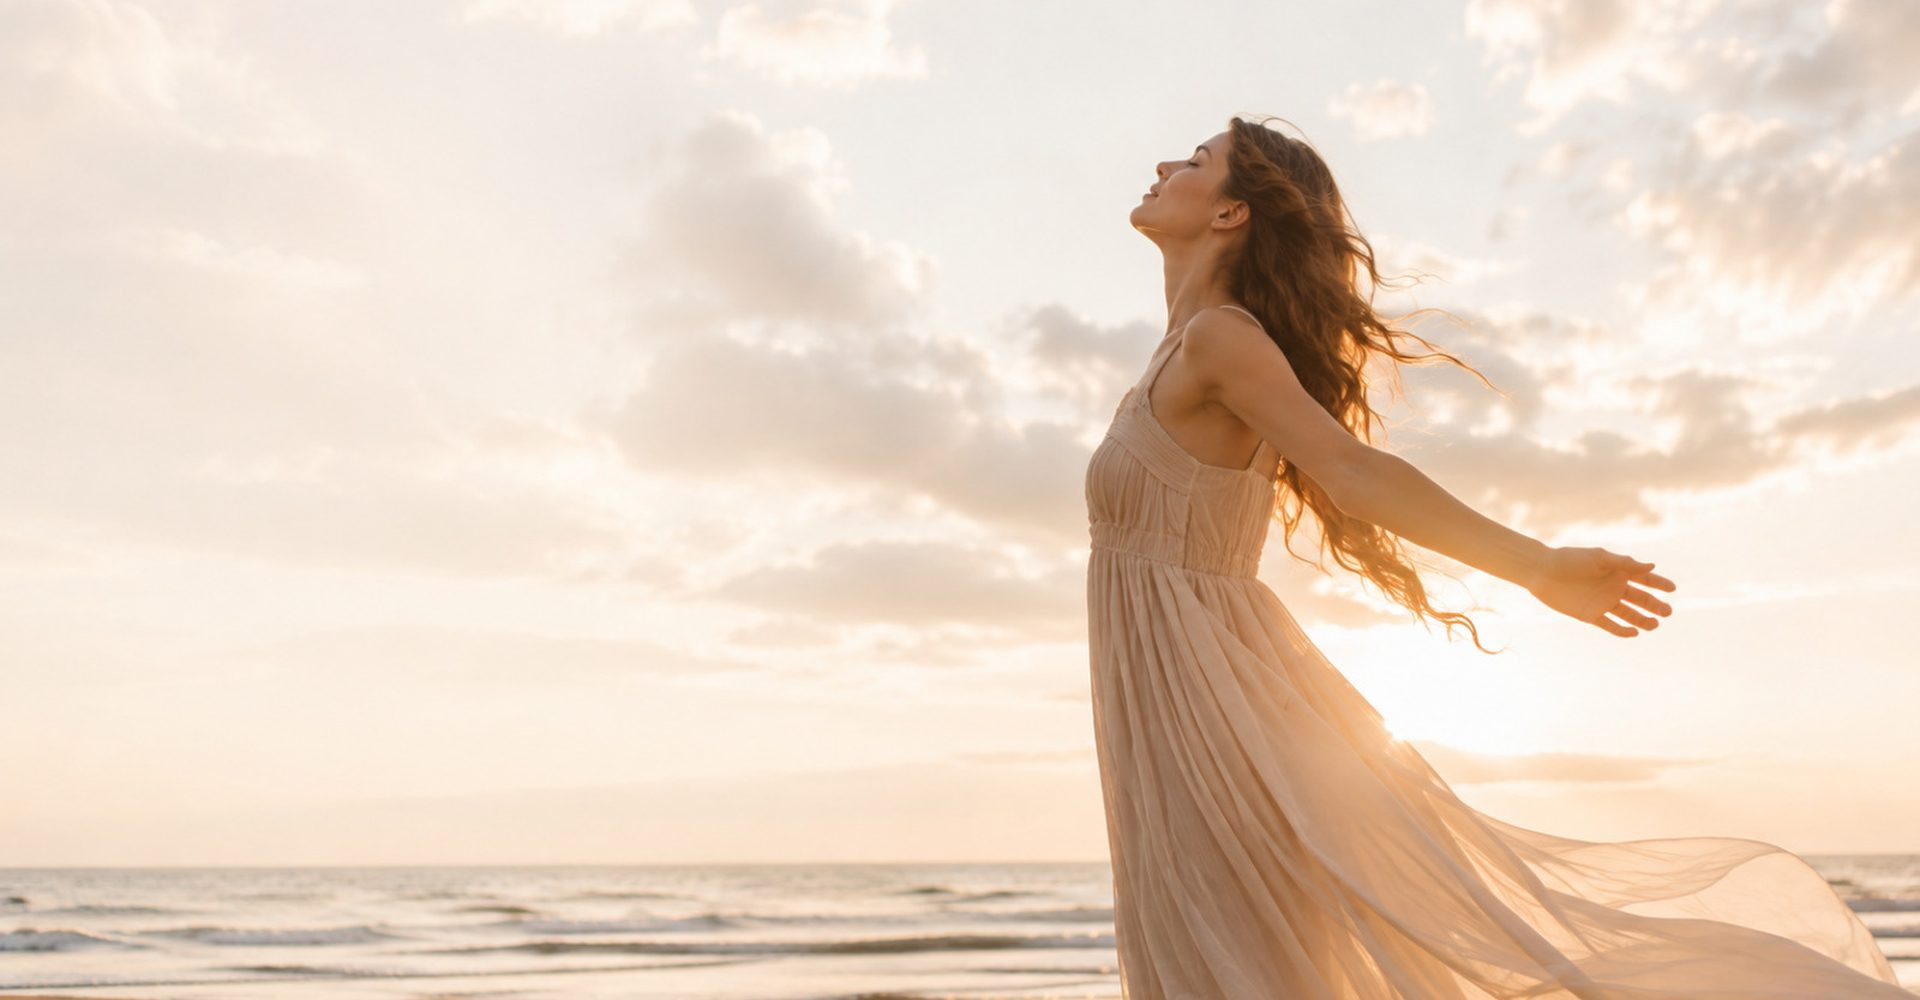
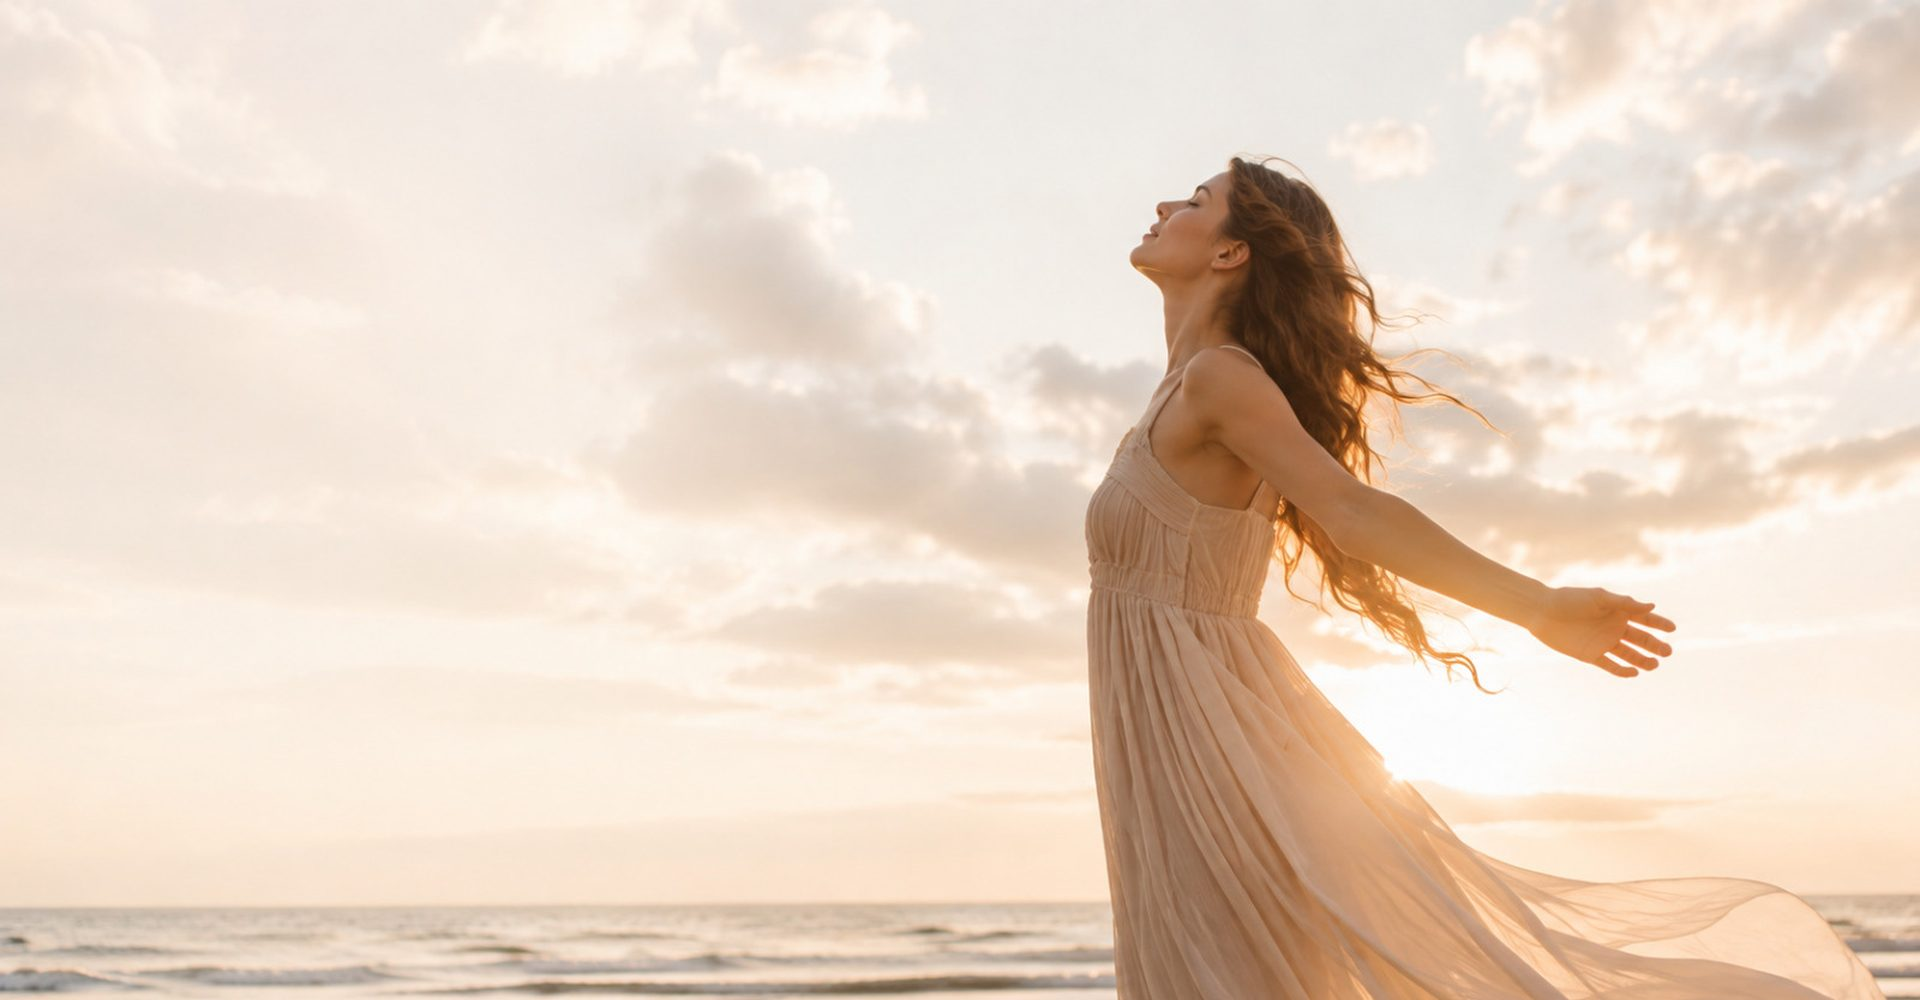
Bez leptira na naslovnom heru; fotka spustena da se lice vidi (v=62)

diff --git a/style.css b/style.css
@@ -407,14 +407,14 @@ ul.ls.cols2{display:grid;grid-template-columns:1fr 1fr;gap:12px 34px;margin-bott
 @media (min-width:701px){.duo .dcard .desc{min-height:76px;display:flex;align-items:center;justify-content:center;}}
 
 /* ---- hero s morem ---- */
-.hero.hero-more{background:url('img/hero-more.jpg') right center/cover no-repeat;}
+.hero.hero-more{background:url('img/hero-more.jpg?2') right top/cover no-repeat;}
 .hero.hero-more::before{content:'';position:absolute;inset:0;background:linear-gradient(90deg, rgba(252,248,243,.94) 0%, rgba(252,248,243,.82) 30%, rgba(252,248,243,.35) 52%, rgba(252,248,243,0) 68%);}
 .hero.hero-more .wrap{position:relative;z-index:1;}
 .hero.hero-more .hero-text{max-width:560px;padding:120px 0 130px;position:relative;}
 .hero.hero-more .leptir-hero{position:absolute;top:78px;right:-96px;width:58px;opacity:.9;}
 @media (max-width:1080px){.hero.hero-more .leptir-hero{right:0;top:44px;}}
 @media (max-width:560px){
-  .hero.hero-more{background-position:72% center;}
+  .hero.hero-more{background-position:72% top;}
   .hero.hero-more::before{background:linear-gradient(90deg, rgba(252,248,243,.94) 0%, rgba(252,248,243,.72) 55%, rgba(252,248,243,.30) 100%);}
   .hero.hero-more .hero-text{padding:80px 0 90px;text-align:left;}
   .hero.hero-more .leptir-hero{width:44px;}

diff --git a/index.html b/index.html
@@ -7,7 +7,7 @@
 <link rel="preconnect" href="https://fonts.googleapis.com">
 <link rel="preconnect" href="https://fonts.gstatic.com" crossorigin>
 <link href="https://fonts.googleapis.com/css2?family=Lora:ital,wght@0,400;0,500;0,600;0,700;1,400&family=Open+Sans:wght@300;400;500;600;700&display=swap" rel="stylesheet">
-<link rel="stylesheet" href="style.css?v=61">
+<link rel="stylesheet" href="style.css?v=62">
 </head>
 <body>
 
@@ -32,7 +32,6 @@
 <section class="hero hero-more">
   <div class="wrap">
     <div class="hero-text">
-      <img class="leptir-hero" src="img/leptir.png" alt="">
       <div class="kicker-line">Programi za povratak onome tko jesi ispod svega što nisi.</div>
       <h1>Nježan i dubok rad za sve koji se žele vratiti sebi</h1>
       <p>Tvoja prošlost ne određuje tvoju budućnost.</p>

diff --git a/blog.html b/blog.html
@@ -7,7 +7,7 @@
 <link rel="preconnect" href="https://fonts.googleapis.com">
 <link rel="preconnect" href="https://fonts.gstatic.com" crossorigin>
 <link href="https://fonts.googleapis.com/css2?family=Lora:ital,wght@0,400;0,500;0,600;0,700;1,400&family=Open+Sans:wght@300;400;500;600;700&display=swap" rel="stylesheet">
-<link rel="stylesheet" href="style.css?v=61">
+<link rel="stylesheet" href="style.css?v=62">
 </head>
 <body>
 

diff --git a/faq.html b/faq.html
@@ -7,7 +7,7 @@
 <link rel="preconnect" href="https://fonts.googleapis.com">
 <link rel="preconnect" href="https://fonts.gstatic.com" crossorigin>
 <link href="https://fonts.googleapis.com/css2?family=Lora:ital,wght@0,400;0,500;0,600;0,700;1,400&family=Open+Sans:wght@300;400;500;600;700&display=swap" rel="stylesheet">
-<link rel="stylesheet" href="style.css?v=61">
+<link rel="stylesheet" href="style.css?v=62">
 </head>
 <body>
 

diff --git a/kolacici.html b/kolacici.html
@@ -7,7 +7,7 @@
 <link rel="preconnect" href="https://fonts.googleapis.com">
 <link rel="preconnect" href="https://fonts.gstatic.com" crossorigin>
 <link href="https://fonts.googleapis.com/css2?family=Lora:ital,wght@0,400;0,500;0,600;0,700;1,400&family=Open+Sans:wght@300;400;500;600;700&display=swap" rel="stylesheet">
-<link rel="stylesheet" href="style.css?v=61">
+<link rel="stylesheet" href="style.css?v=62">
 </head>
 <body>
 

diff --git a/konstelacije.html b/konstelacije.html
@@ -7,7 +7,7 @@
 <link rel="preconnect" href="https://fonts.googleapis.com">
 <link rel="preconnect" href="https://fonts.gstatic.com" crossorigin>
 <link href="https://fonts.googleapis.com/css2?family=Lora:ital,wght@0,400;0,500;0,600;0,700;1,400&family=Open+Sans:wght@300;400;500;600;700&display=swap" rel="stylesheet">
-<link rel="stylesheet" href="style.css?v=61">
+<link rel="stylesheet" href="style.css?v=62">
 </head>
 <body>
 

diff --git a/kontakt.html b/kontakt.html
@@ -7,7 +7,7 @@
 <link rel="preconnect" href="https://fonts.googleapis.com">
 <link rel="preconnect" href="https://fonts.gstatic.com" crossorigin>
 <link href="https://fonts.googleapis.com/css2?family=Lora:ital,wght@0,400;0,500;0,600;0,700;1,400&family=Open+Sans:wght@300;400;500;600;700&display=swap" rel="stylesheet">
-<link rel="stylesheet" href="style.css?v=61">
+<link rel="stylesheet" href="style.css?v=62">
 </head>
 <body>
 

diff --git a/omeni.html b/omeni.html
@@ -7,7 +7,7 @@
 <link rel="preconnect" href="https://fonts.googleapis.com">
 <link rel="preconnect" href="https://fonts.gstatic.com" crossorigin>
 <link href="https://fonts.googleapis.com/css2?family=Lora:ital,wght@0,400;0,500;0,600;0,700;1,400&family=Open+Sans:wght@300;400;500;600;700&display=swap" rel="stylesheet">
-<link rel="stylesheet" href="style.css?v=61">
+<link rel="stylesheet" href="style.css?v=62">
 </head>
 <body>
 

diff --git a/portal.html b/portal.html
@@ -7,7 +7,7 @@
 <link rel="preconnect" href="https://fonts.googleapis.com">
 <link rel="preconnect" href="https://fonts.gstatic.com" crossorigin>
 <link href="https://fonts.googleapis.com/css2?family=Lora:ital,wght@0,400;0,500;0,600;0,700;1,400&family=Open+Sans:wght@300;400;500;600;700&display=swap" rel="stylesheet">
-<link rel="stylesheet" href="style.css?v=61">
+<link rel="stylesheet" href="style.css?v=62">
 </head>
 <body>
 

diff --git a/post.html b/post.html
@@ -7,7 +7,7 @@
 <link rel="preconnect" href="https://fonts.googleapis.com">
 <link rel="preconnect" href="https://fonts.gstatic.com" crossorigin>
 <link href="https://fonts.googleapis.com/css2?family=Lora:ital,wght@0,400;0,500;0,600;0,700;1,400&family=Open+Sans:wght@300;400;500;600;700&display=swap" rel="stylesheet">
-<link rel="stylesheet" href="style.css?v=61">
+<link rel="stylesheet" href="style.css?v=62">
 </head>
 <body>
 

diff --git a/privatnost.html b/privatnost.html
@@ -7,7 +7,7 @@
 <link rel="preconnect" href="https://fonts.googleapis.com">
 <link rel="preconnect" href="https://fonts.gstatic.com" crossorigin>
 <link href="https://fonts.googleapis.com/css2?family=Lora:ital,wght@0,400;0,500;0,600;0,700;1,400&family=Open+Sans:wght@300;400;500;600;700&display=swap" rel="stylesheet">
-<link rel="stylesheet" href="style.css?v=61">
+<link rel="stylesheet" href="style.css?v=62">
 </head>
 <body>
 

diff --git a/programi.html b/programi.html
@@ -7,7 +7,7 @@
 <link rel="preconnect" href="https://fonts.googleapis.com">
 <link rel="preconnect" href="https://fonts.gstatic.com" crossorigin>
 <link href="https://fonts.googleapis.com/css2?family=Lora:ital,wght@0,400;0,500;0,600;0,700;1,400&family=Open+Sans:wght@300;400;500;600;700&display=swap" rel="stylesheet">
-<link rel="stylesheet" href="style.css?v=61">
+<link rel="stylesheet" href="style.css?v=62">
 </head>
 <body>
 
